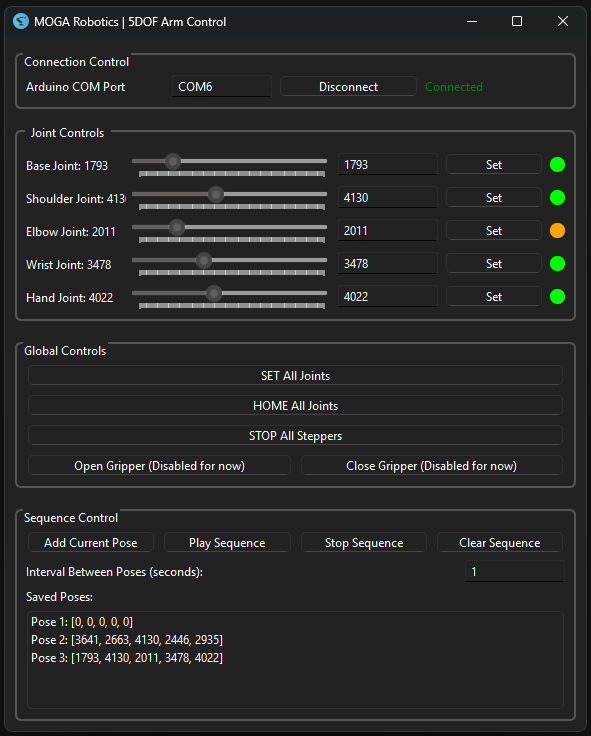
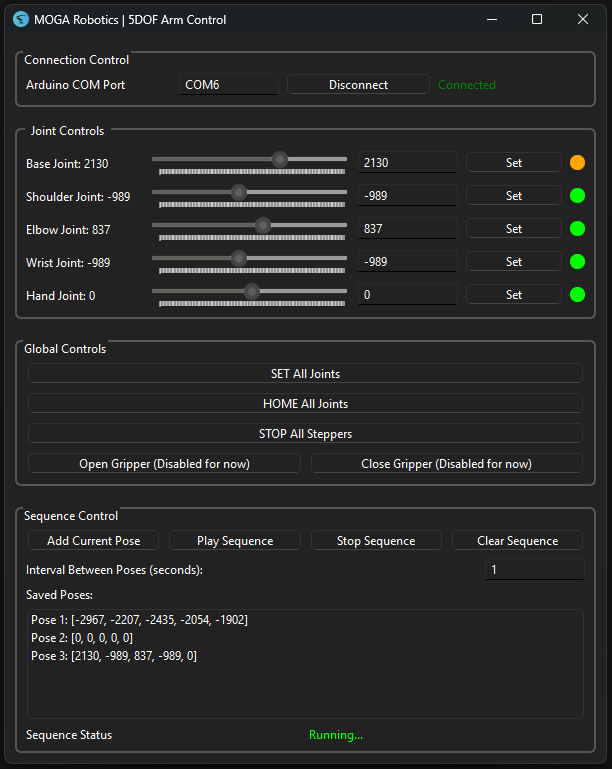
Added counter clockwise management to set all joints command

diff --git a/robotic-arm-control-app/robotic_arm_control_gui.py b/robotic-arm-control-app/robotic_arm_control_gui.py
@@ -31,13 +31,13 @@ class RoboticArmControlApp(QWidget):
         joint_layout = QHBoxLayout()  
         
         label = QLabel(f"{joint_name} Joint: {initial_value}")
-        label.setMinimumWidth(100)
+        label.setMinimumWidth(120)  # Set minimum width for the joint control text
         joint_layout.addWidget(label)
 
         slider = QSlider(Qt.Orientation.Horizontal)
         slider.setTickPosition(QSlider.TickPosition.TicksBelow)
-        slider.setTickInterval(100)
-        slider.setRange(-5000, 5000)
+        slider.setTickInterval(110)
+        slider.setRange(-7000, 7000)
         slider.setValue(0)
         slider.setMinimumWidth(200)
         joint_layout.addWidget(slider)
@@ -159,7 +159,7 @@ class RoboticArmControlApp(QWidget):
     def create_sequence_control(self):
         """Create the sequence control panel"""
         sequence_layout = QVBoxLayout()
-        
+
         # Buttons layout
         buttons_layout = QHBoxLayout()
         
@@ -204,7 +204,16 @@ class RoboticArmControlApp(QWidget):
         self.poses_list = QListWidget()
         self.poses_list.setMinimumHeight(100)
         sequence_layout.addWidget(self.poses_list)
+    
+           # Status label
+        status_layout = QHBoxLayout()
+        status_layout.addWidget(QLabel("Sequence Status"))
+        self.sequence_status_label = QLabel("Idle")
+        self.sequence_status_label.setStyleSheet("color: gray;")
+        status_layout.addWidget(self.sequence_status_label)
+        sequence_layout.addLayout(status_layout)
         
+
         return sequence_layout
 
     def create_connection_control(self):
@@ -349,8 +358,14 @@ class RoboticArmControlApp(QWidget):
             self.serial_interface.send_move_joint_command(command)
 
     def send_move_all_joints_command(self):
-        command = f"m00{self.joint_values[0]}m10{self.joint_values[1]}m20{self.joint_values[2]}m30{self.joint_values[3]}m40{self.joint_values[4]}"
-        self.serial_interface.send_move_joint_command(command)
+        """Send command to move all joints to their respective target positions."""
+        move_all_joints_command = ""
+        for i, joint_value in enumerate(self.joint_values):
+            direction = "0" if joint_value >= 0 else "1"
+            abs_value = abs(joint_value)
+            move_all_joints_command += f"m{i}{direction}{abs_value}"
+
+        self.serial_interface.send_move_joint_command(move_all_joints_command)
 
     def add_current_pose(self):
         """Add current joint values as a pose to the sequence"""
@@ -370,6 +385,9 @@ class RoboticArmControlApp(QWidget):
             print("Sequence is already playing")
             return
         
+        self.sequence_status_label.setText("Running...")
+        self.sequence_status_label.setStyleSheet("color: #00FF00;")  # Green color
+        
         self.sequence_thread = threading.Thread(
             target=self.sequence_manager.play_sequence,
             kwargs={'back_and_forth': True}
@@ -381,7 +399,10 @@ class RoboticArmControlApp(QWidget):
         self.sequence_manager.stop_sequence()
         if self.sequence_thread:
             self.sequence_thread.join()
-    
+        
+        self.sequence_status_label.setText("Stopped")
+        self.sequence_status_label.setStyleSheet("color: red;")
+
     def clean_up(self):
         self.stop_sequence()
         self.serial_interface.close()
@@ -390,6 +411,8 @@ class RoboticArmControlApp(QWidget):
         """Clear the sequence and update the display"""
         self.sequence_manager.clear_sequence()
         self.update_poses_list()  # Update the UI list after clearing
+        self.sequence_status_label.setText("Idle")
+        self.sequence_status_label.setStyleSheet("color: gray;")
 
     def update_all_joint_status(self):
         """Update all joint status indicators based on SerialInterface status"""

diff --git a/robotic-arm-control-app/sequence_manager.py b/robotic-arm-control-app/sequence_manager.py
@@ -19,6 +19,7 @@ class SequenceManager:
         self.poses = []  # List to store poses
         self.interval = 1  # Default interval in seconds between poses
         self.is_playing = False
+        self.current_pose_index = 0
         self.play_direction = 1  # 1 for forward, -1 for backward
     
     def add_pose(self, joint_values):
@@ -54,13 +55,13 @@ class SequenceManager:
     
     def execute_pose(self, pose):
         """Execute a single pose"""
-        command = "".join([f"m{i}0{val}" for i, val in enumerate(pose.joint_values)])
-        #print(f"Executing command: {command}")
+        move_all_joints_command = ""
+        for i, joint_value in enumerate(pose.joint_values):
+            direction = "0" if joint_value >= 0 else "1"
+            abs_value = abs(joint_value)
+            move_all_joints_command += f"m{i}{direction}{abs_value}"
 
-        if not self.serial_interface.serial_connection.is_open:
-            self.serial_interface.connect()
-        
-        return self.serial_interface.send_move_joint_command(command)
+        return self.serial_interface.send_move_joint_command(move_all_joints_command)
     
     def play_sequence(self, back_and_forth=True):
         """Start playing the sequence"""
@@ -69,13 +70,13 @@ class SequenceManager:
             return False
         
         self.is_playing = True
-        current_index = 0
+        self.current_pose_index = 0
         self.play_direction = 1
         
         while self.is_playing:
             # Execute current pose
-            print(f"## SequenceManager Class - Executing Pose Number => {current_index + 1} / {len(self.poses)} <=")
-            current_pose = self.poses[current_index]
+            print(f"## SequenceManager Class - Executing Pose Number => {self.current_pose_index + 1} / {len(self.poses)} <=")
+            current_pose = self.poses[self.current_pose_index]
             self.execute_pose(current_pose)
             
             while True:
@@ -89,20 +90,20 @@ class SequenceManager:
             time.sleep(self.interval)
             
             # Update index based on direction
-            current_index += self.play_direction
+            self.current_pose_index += self.play_direction
             
             # Handle direction changes if back_and_forth is True
             if back_and_forth:
-                if current_index >= len(self.poses):
-                    current_index = len(self.poses) - 2
+                if self.current_pose_index >= len(self.poses):
+                    self.current_pose_index = len(self.poses) - 2
                     self.play_direction = -1
-                elif current_index < 0:
-                    current_index = 1
+                elif self.current_pose_index < 0:
+                    self.current_pose_index = 1
                     self.play_direction = 1
             else:
                 # Just loop from start if we reach the end
-                if current_index >= len(self.poses):
-                    current_index = 0
+                if self.current_pose_index >= len(self.poses):
+                    self.current_pose_index = 0
                 
         return True
     

diff --git a/robotic-arm-control-app/serial_interface_control.py b/robotic-arm-control-app/serial_interface_control.py
@@ -60,7 +60,7 @@ class SerialInterface:
             while True:
                 if (time.time() - start_time) > timeout:
                     print(f"ERROR: Timeout - MOVE JOINT COMMAND {command_to_monitor} DID NOT GO THROUGH...")
-                    self.move_command_monitoring_done = False
+                    self.move_command_monitoring_done = True
                     break
                 
                 if self.serial_connection.in_waiting > 0:
